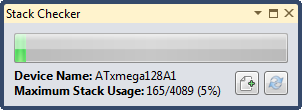
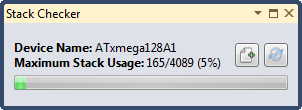
Use wider default size.

Changed region(s): [[0.0298, 0.3, 0.9536, 0.9]]

diff --git a/StackChecker/StackCheckerWindow.xaml b/StackChecker/StackCheckerWindow.xaml
@@ -5,8 +5,7 @@
              xmlns:d="http://schemas.microsoft.com/expression/blend/2008" 
              xmlns:vsfx="clr-namespace:Microsoft.VisualStudio.Shell;assembly=Microsoft.VisualStudio.Shell.10.0"
              mc:Ignorable="d" 
-             d:DesignHeight="70" d:DesignWidth="300"
-             MinHeight="70"
+             d:DesignHeight="70" d:DesignWidth="500"
              Name="StackCheckerToolWindow"
              Background="{DynamicResource {x:Static vsfx:VsBrushes.ToolWindowBackgroundKey}}">
     <Grid VerticalAlignment="Center" MinHeight="70">

diff --git a/StackChecker/StackCheckerPackage.cs b/StackChecker/StackCheckerPackage.cs
@@ -11,7 +11,7 @@ namespace FourWalledCubicle.StackChecker
     [PackageRegistration(UseManagedResourcesOnly = true)]
     [InstalledProductRegistration("#110", "#112", "1.0")]
     [ProvideMenuResource("Menus.ctmenu", 1)]
-    [ProvideToolWindow(typeof(StackCheckerToolWindow), Height=70, Width=300, Style=VsDockStyle.Float)]
+    [ProvideToolWindow(typeof(StackCheckerToolWindow), Height=70, Width=500, Style=VsDockStyle.Float)]
     [Guid(GuidList.guidStackCheckerPkgString)]
     public sealed class StackCheckerPackage : Package
     {
@@ -38,11 +38,11 @@ namespace FourWalledCubicle.StackChecker
             base.Initialize();
 
             OleMenuCommandService mcs = GetService(typeof(IMenuCommandService)) as OleMenuCommandService;
-            if (null != mcs)
+            if (mcs != null)
             {
                 CommandID toolwndCommandID = new CommandID(GuidList.guidStackCheckerCmdSet, (int)PkgCmdIDList.cmdidStackChecker);
                 MenuCommand menuToolWin = new MenuCommand(ShowToolWindow, toolwndCommandID);
-                mcs.AddCommand( menuToolWin );
+                mcs.AddCommand(menuToolWin);
             }
         }
     }
